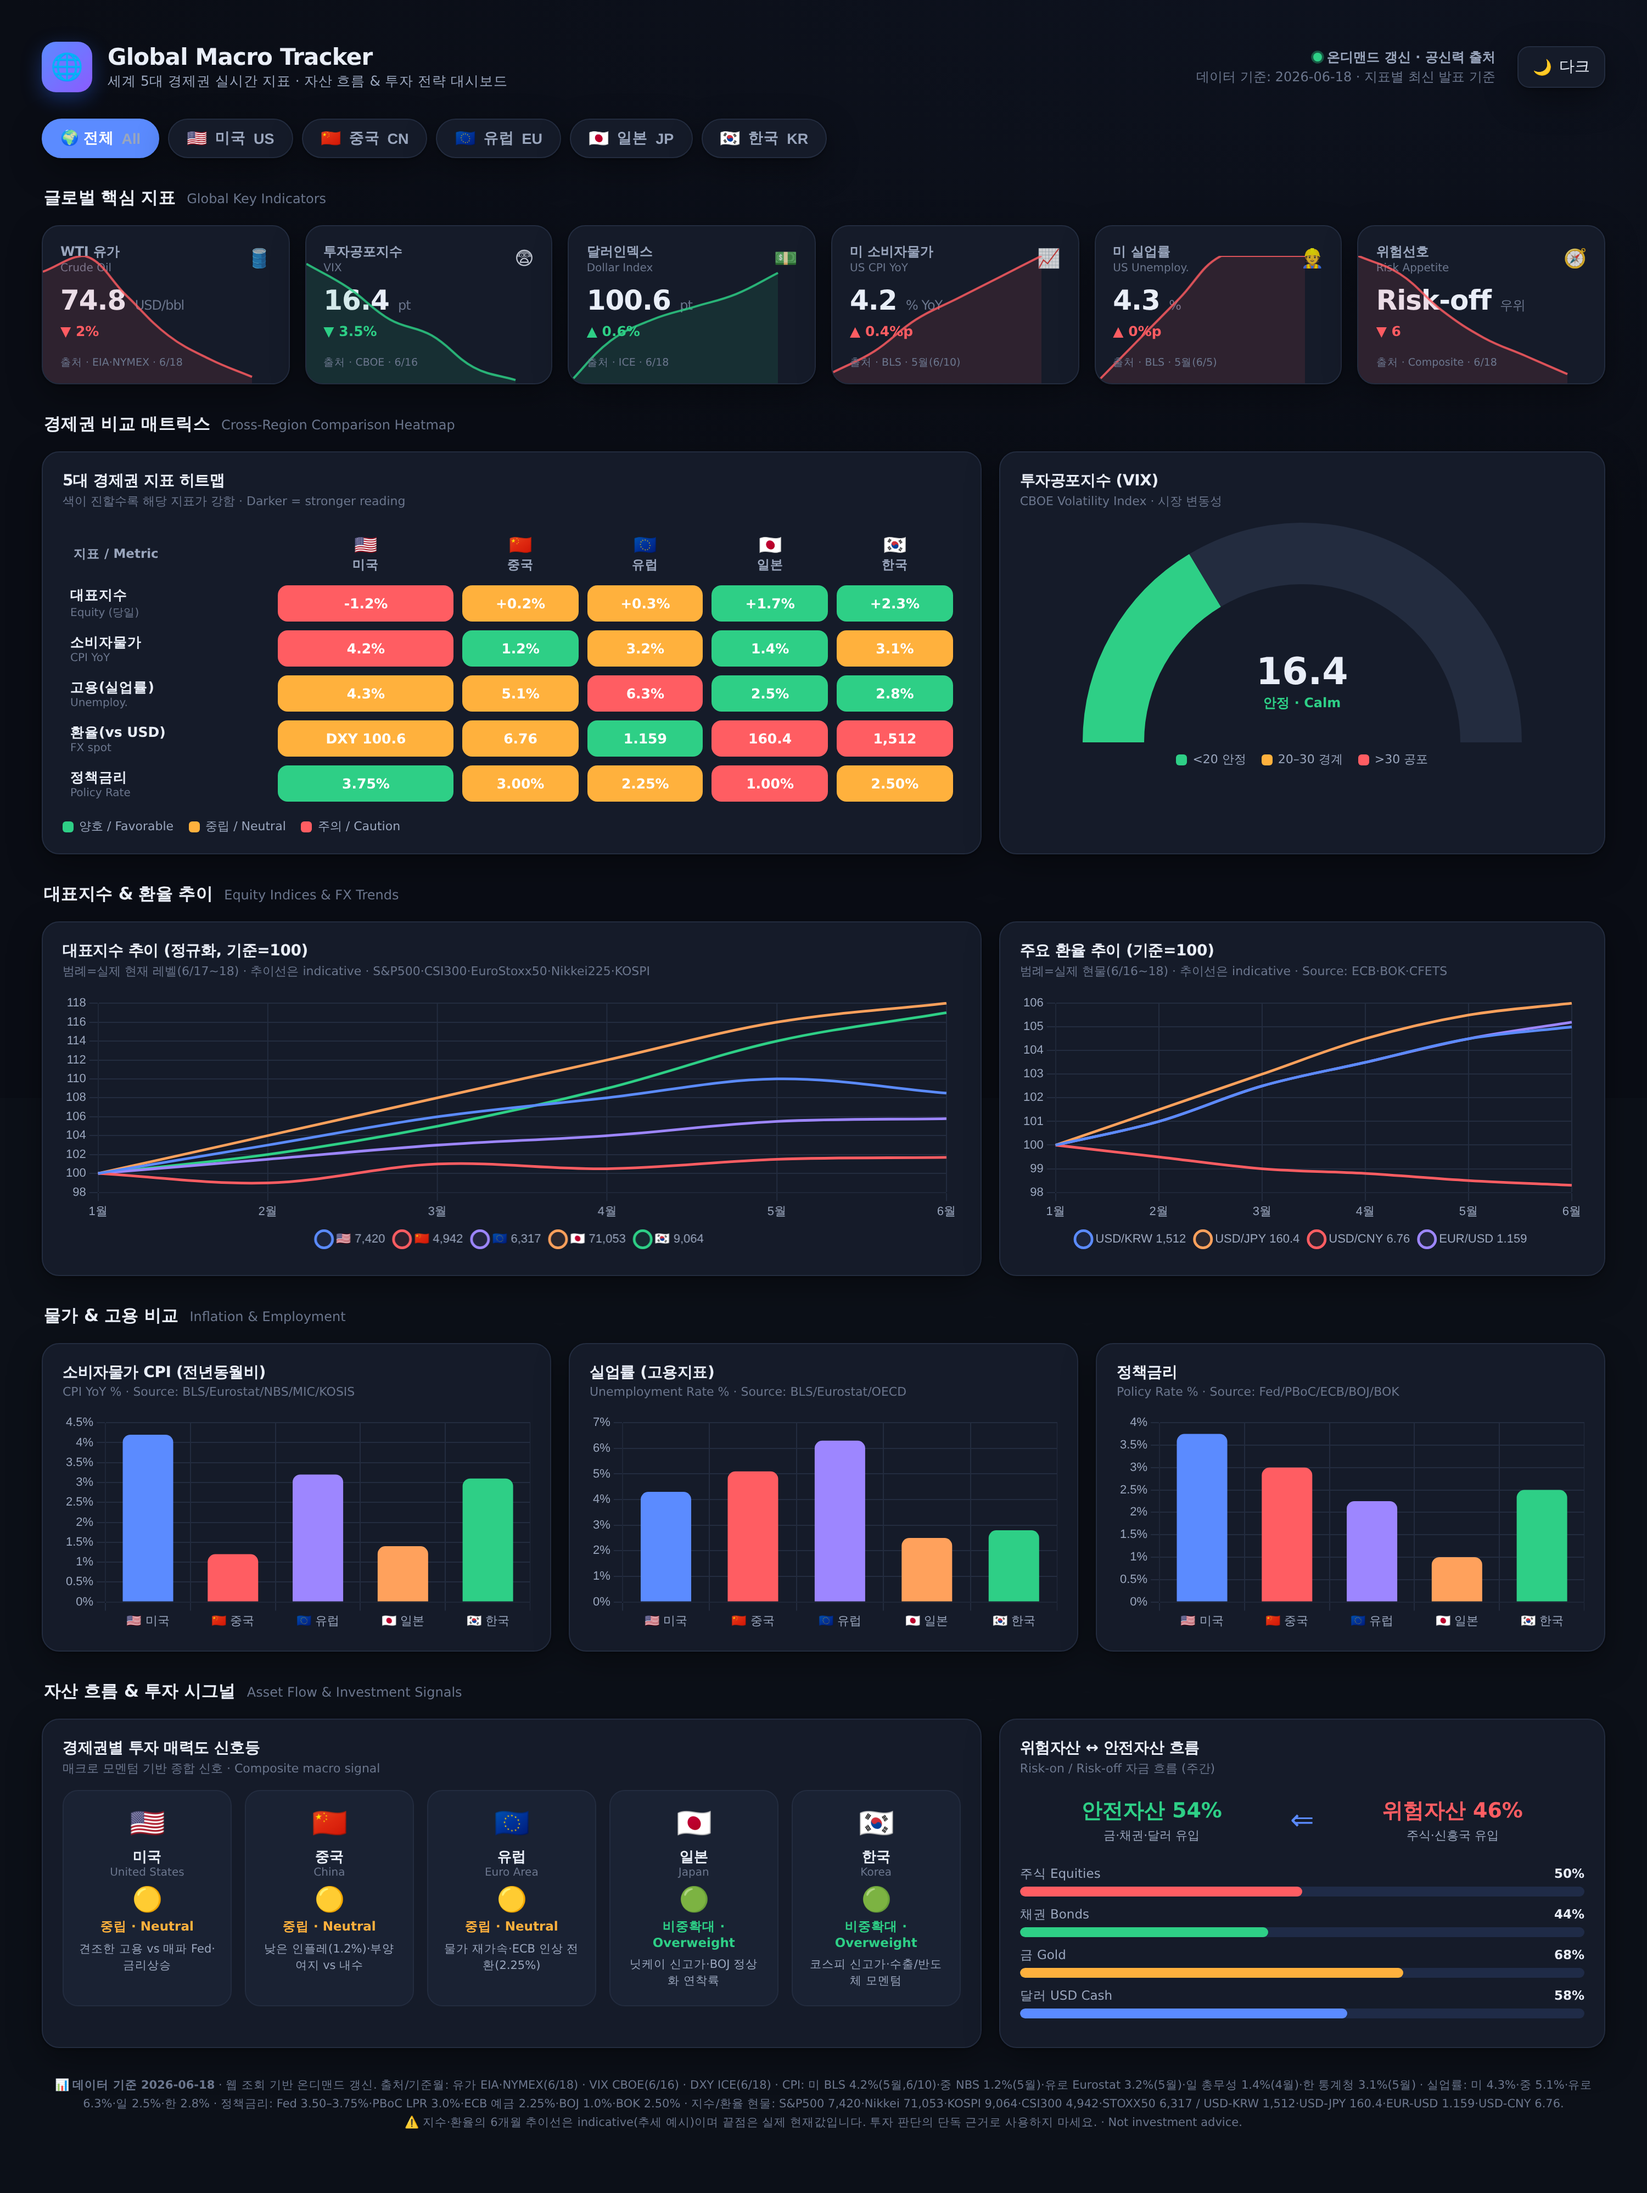
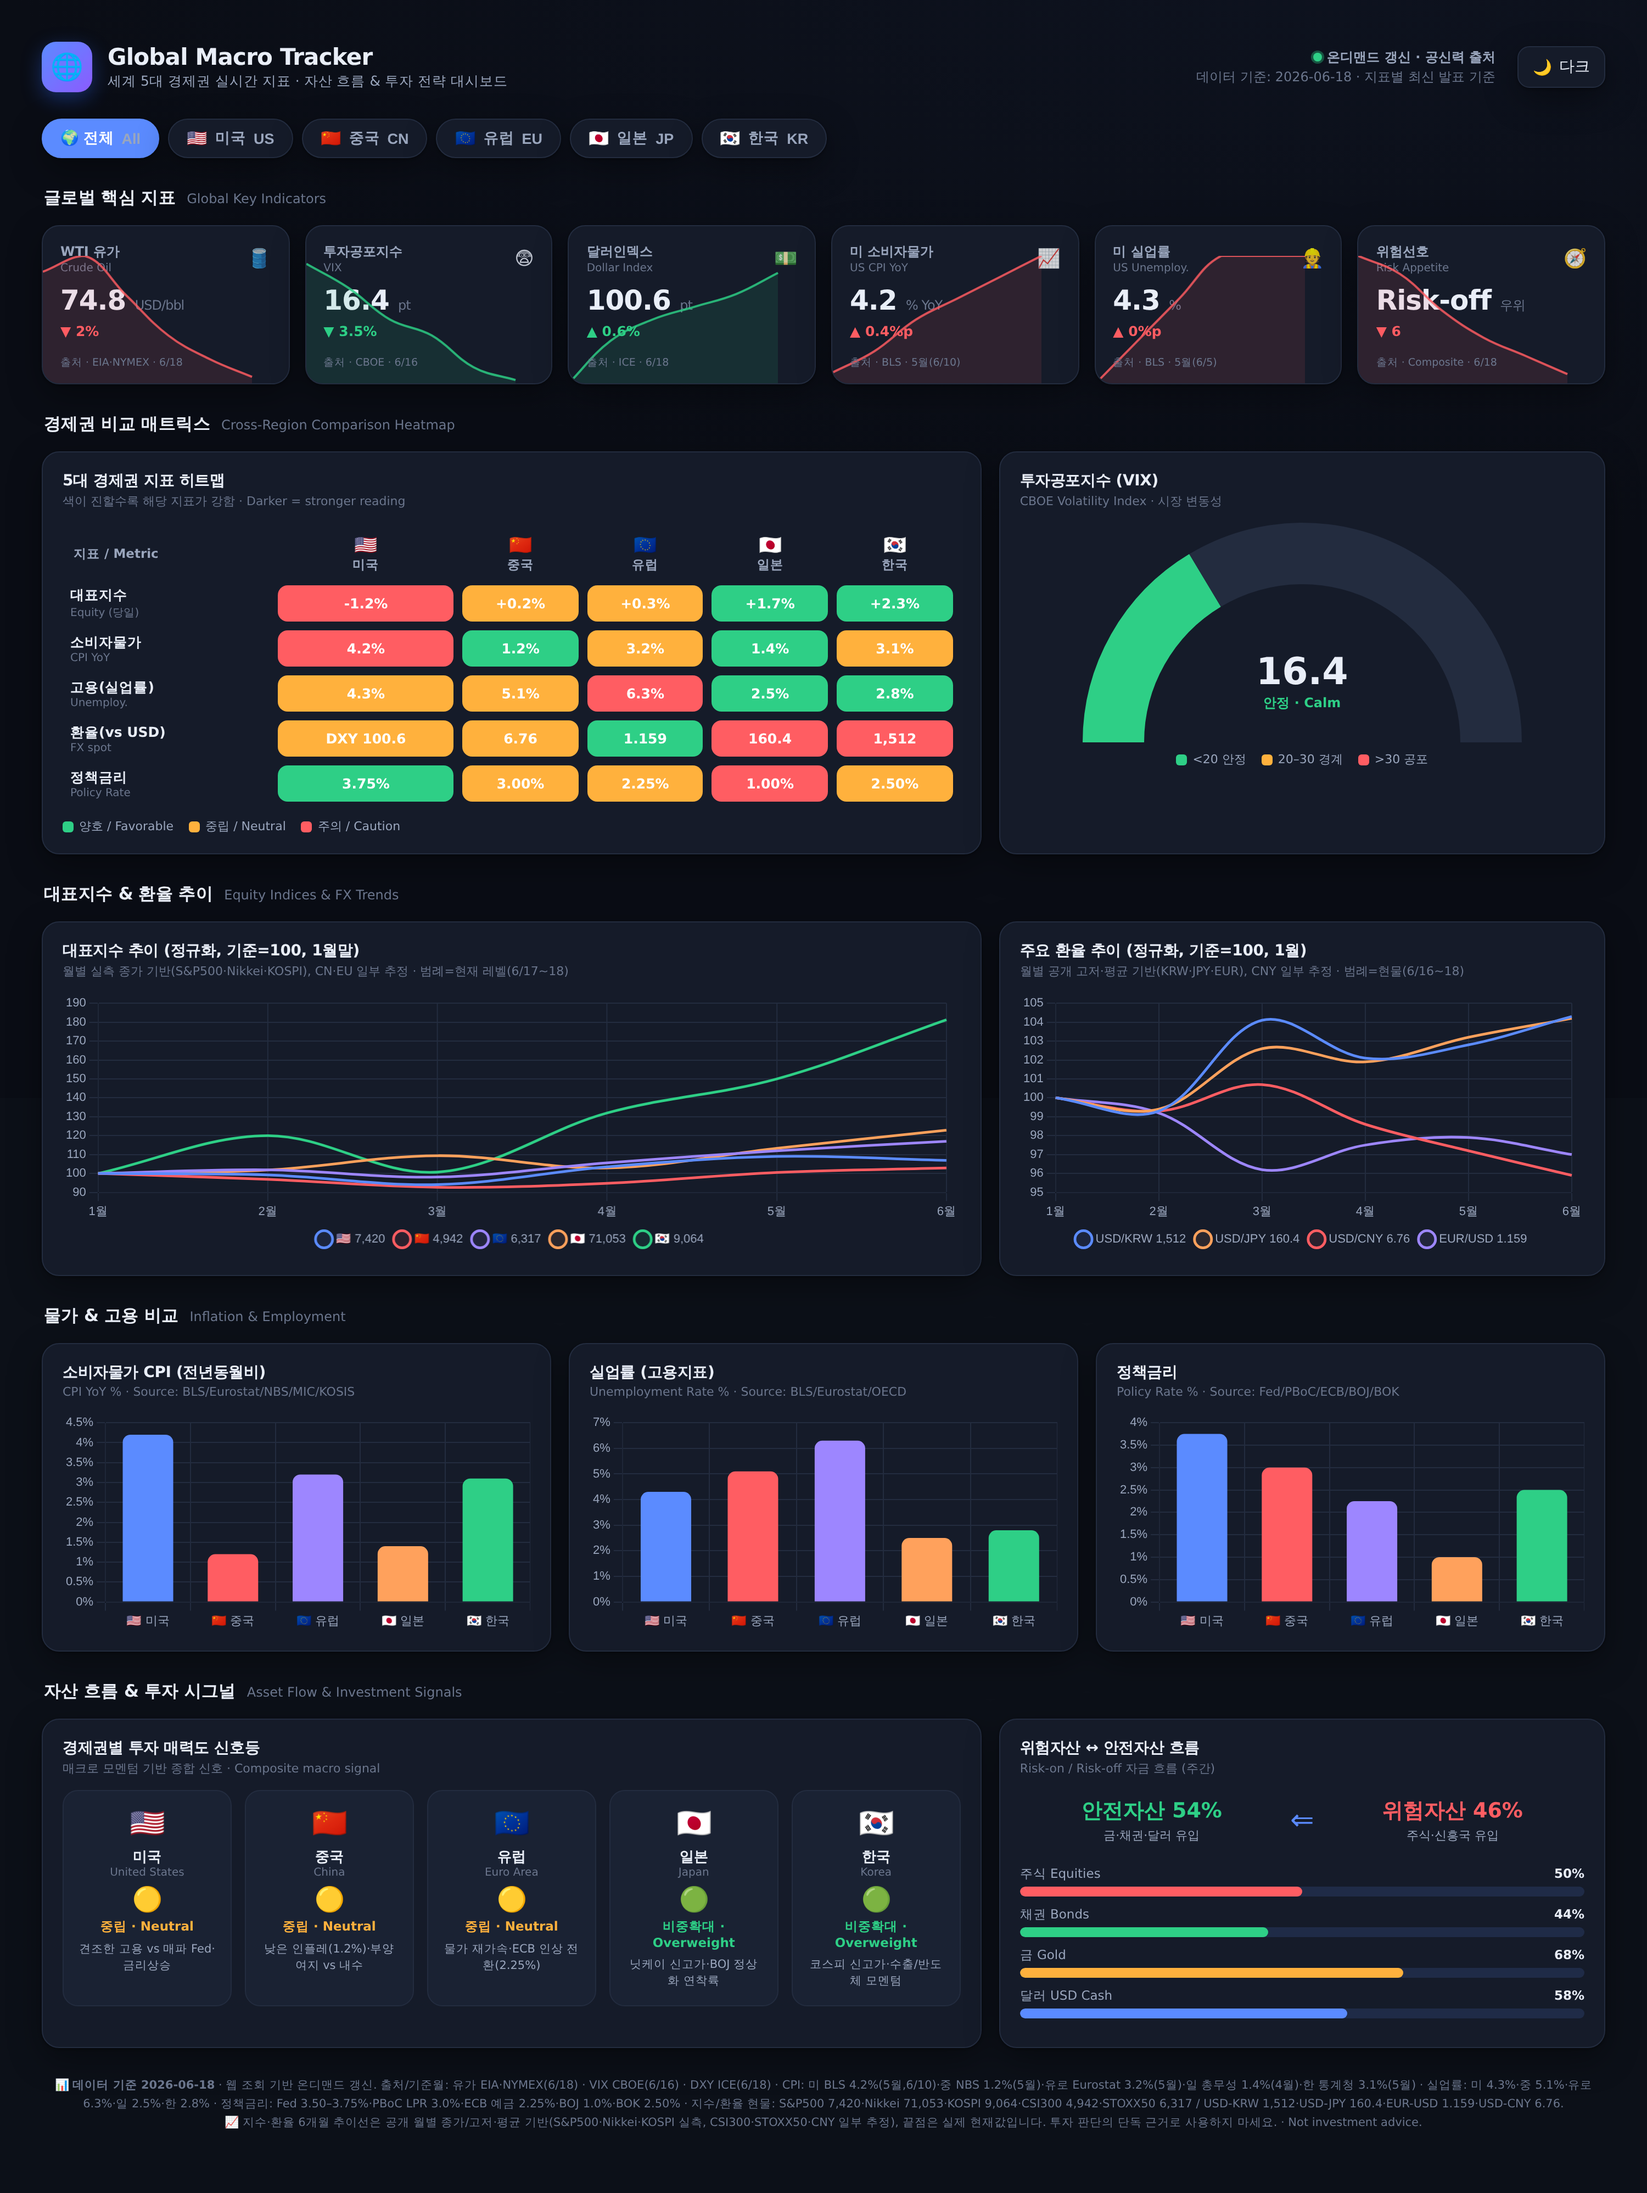
data: 지수·환율 6개월 추이를 월별 실측 기반으로 교체
웹 조회한 공개 월별 종가/수익률·고저·평균으로 정규화 시계열 재구성.
- 지수: S&P500(6939→7420)·Nikkei(57791→71053)·KOSPI(5000→9064) 실측,
  CSI300·STOXX50 일부 추정. 3월 에너지 쇼크 조정, KOSPI 2026 폭등 반영
- 환율: KRW·JPY·EUR 공개 고저/평균 기반, CNY 일부 추정
- 차트 부제/푸터에 실측·추정 구분 명시

Claude-Session: https://claude.ai/code/session_01B4ZtiJGvRtEZViKZb8dgt9

diff --git a/index.html b/index.html
@@ -273,13 +273,13 @@
   </div>
   <div class="grid g-2">
     <div class="card">
-      <h3>대표지수 추이 (정규화, 기준=100)</h3>
-      <div class="h-en">범례=실제 현재 레벨(6/17~18) · 추이선은 indicative · S&amp;P500·CSI300·EuroStoxx50·Nikkei225·KOSPI</div>
+      <h3>대표지수 추이 (정규화, 기준=100, 1월말)</h3>
+      <div class="h-en">월별 실측 종가 기반(S&amp;P500·Nikkei·KOSPI), CN·EU 일부 추정 · 범례=현재 레벨(6/17~18)</div>
       <div class="canvas-box"><canvas id="idxChart"></canvas></div>
     </div>
     <div class="card">
-      <h3>주요 환율 추이 (기준=100)</h3>
-      <div class="h-en">범례=실제 현물(6/16~18) · 추이선은 indicative · Source: ECB·BOK·CFETS</div>
+      <h3>주요 환율 추이 (정규화, 기준=100, 1월)</h3>
+      <div class="h-en">월별 공개 고저·평균 기반(KRW·JPY·EUR), CNY 일부 추정 · 범례=현물(6/16~18)</div>
       <div class="canvas-box"><canvas id="fxChart"></canvas></div>
     </div>
   </div>
@@ -335,7 +335,7 @@
     실업률: 미 4.3%·중 5.1%·유로 6.3%·일 2.5%·한 2.8% ·
     정책금리: Fed 3.50–3.75%·PBoC LPR 3.0%·ECB 예금 2.25%·BOJ 1.0%·BOK 2.50% ·
     지수/환율 현물: S&amp;P500 7,420·Nikkei 71,053·KOSPI 9,064·CSI300 4,942·STOXX50 6,317 / USD-KRW 1,512·USD-JPY 160.4·EUR-USD 1.159·USD-CNY 6.76.<br/>
-    ⚠ 지수·환율의 6개월 추이선은 indicative(추세 예시)이며 끝점은 실제 현재값입니다. 투자 판단의 단독 근거로 사용하지 마세요. · Not investment advice.
+    📈 지수·환율 6개월 추이선은 공개 월별 종가/고저·평균 기반(S&amp;P500·Nikkei·KOSPI 실측, CSI300·STOXX50·CNY 일부 추정), 끝점은 실제 현재값입니다. 투자 판단의 단독 근거로 사용하지 마세요. · Not investment advice.
   </div>
 </div>
 
@@ -384,23 +384,25 @@ const DATA = {
     { metric:'정책금리', en:'Policy Rate', fmt:'',
       cells:{ US:{d:'3.75%',s:70}, CN:{d:'3.00%',s:62}, EU:{d:'2.25%',s:55}, JP:{d:'1.00%',s:40}, KR:{d:'2.50%',s:58} } },
   ],
-  // 대표지수: 6개월 추이는 indicative, 끝값 라벨은 실제 현재 레벨(6/17~18)
+  // 대표지수: 월별 실측 종가 기반 정규화(기준=100, 1월말). 끝값 라벨=실제 현재 레벨(6/17~18)
+  // 실측 종가: US(6939→7420) JP(57791→71053) KR(5000→9064) / CN·EU 일부 추정
   indices: {
     labels: MONTHS,
     levels: { US:'7,420', CN:'4,942', EU:'6,317', JP:'71,053', KR:'9,064' },
     series: {
-      US:[100,103,106,108,110,108.5], CN:[100,99,101,100.5,101.5,101.7],
-      EU:[100,101.5,103,104,105.5,105.8], JP:[100,104,108,112,116,118],
-      KR:[100,102,105,109,114,117],
+      US:[100,99.2,94.1,103.5,109.0,106.9], CN:[100,96.9,92.7,94.8,100.5,102.9],
+      EU:[100,101.9,98.1,105.6,112.0,117.0], JP:[100,101.8,109.4,102.9,113.3,122.9],
+      KR:[100,120.0,100.7,132.0,150.0,181.3],
     }
   },
-  // 환율: 추이 indicative, 끝값 라벨은 실제 현물(6/16~18)
+  // 환율: 월별 정규화(기준=100, 1월). 끝값 라벨=실제 현물(6/16~18)
+  // KRW·JPY·EUR 공개 고저/평균 기반, CNY 일부 추정
   fx: {
     labels: MONTHS,
     levels: { 'USD/KRW':'1,512', 'USD/JPY':'160.4', 'USD/CNY':'6.76', 'EUR/USD':'1.159' },
     series: {
-      'USD/KRW':[100,101,102.5,103.5,104.5,105], 'USD/JPY':[100,101.5,103,104.5,105.5,106],
-      'USD/CNY':[100,99.5,99,98.8,98.5,98.3], 'EUR/USD':[100,101,102.5,103.5,104.5,105.2],
+      'USD/KRW':[100,99.3,104.1,102.1,102.8,104.3], 'USD/JPY':[100,99.4,102.6,101.9,103.2,104.2],
+      'USD/CNY':[100,99.3,100.7,98.6,97.2,95.9], 'EUR/USD':[100,99.2,96.2,97.5,97.9,97.0],
     }
   },
   // CPI YoY 실측 (최신 발표월)
